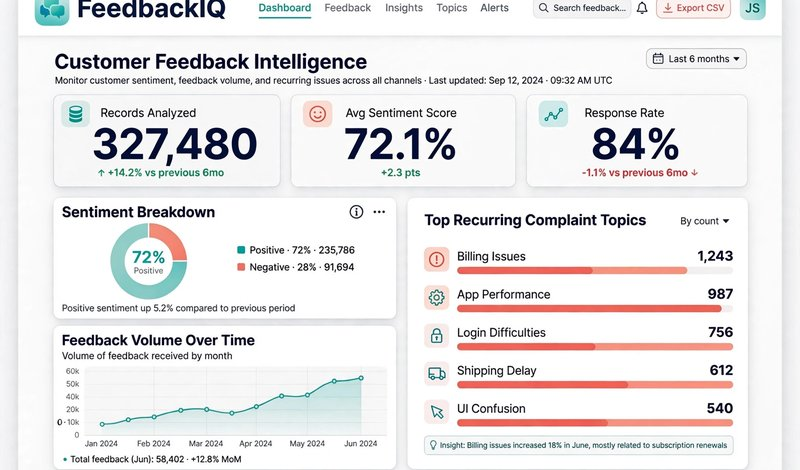
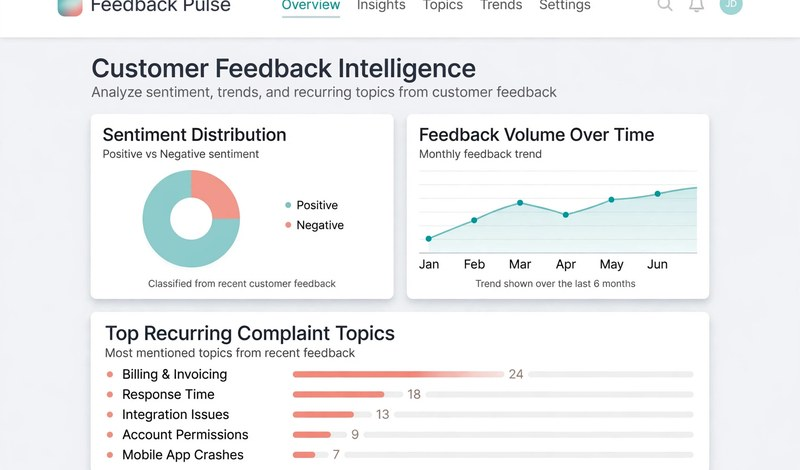
Mirror QA fixes: monogram-only header, lowercase nav, taller footer, no status pills, single-line card titles, readable inactive hero side, full-face photo strip, tilted pie between lists, story portrait, contact portrait beside heading, number-free feedback image

diff --git a/css/style.css b/css/style.css
@@ -62,7 +62,7 @@
       .brand-name small{ display:block; font-weight:500; font-size:11px; color:#bdb8ac; letter-spacing:.4px; }
       nav.main{ margin-left:auto; display:flex; align-items:center; gap:4px; }
       nav.main a{
-        color:#ece9e2; text-decoration:none; font-size:17px; font-weight:500;
+        color:#ece9e2; text-decoration:none; font-size:17px; font-weight:400; text-transform:lowercase;
         padding:10px 11px; border-radius:6px; min-height:40px; display:inline-flex; align-items:center;
       }
       nav.main a:hover{ color:#fff; background:#2a2723; }
@@ -235,7 +235,7 @@
       .preview img{ width:100%; height:100%; object-fit:cover; display:block; }
       .card-meta{ padding:20px 22px 22px; display:flex; flex-direction:column; flex:1; }
       .card-top{ display:flex; align-items:flex-start; gap:10px; }
-      .card-top h3{ margin:0; font-size:20px; font-weight:400; color:var(--ink-strong); line-height:1.35; letter-spacing:-.3px; flex:1; }
+      .card-top h3{ margin:0; font-size:20px; font-weight:400; color:var(--ink-strong); line-height:1.35; letter-spacing:-.3px; flex:1; min-width:0; white-space:nowrap; overflow:hidden; text-overflow:ellipsis; }
       /* Adham-style collapsed card: title + subtitle + chevron; detail opens on click */
 .work-arrow{
         position:absolute; top:calc(50% + 20px); transform:translateY(-50%);
@@ -358,13 +358,13 @@
       }
       .to-top svg{ width:45px; height:25px; fill:#fff; }
       .footer-in{
-        max-width:1310px; margin:0 auto; padding:30px 20px 34px;
+        max-width:1310px; margin:0 auto; padding:44px 20px 48px;
         display:flex; align-items:center; gap:20px; flex-wrap:wrap;
       }
       .footer-in .copy{ font-size:16px; color:#999; font-weight:400; }
       .footer-in nav{ margin-left:auto; display:flex; gap:4px; flex-wrap:wrap; }
 .footer-in nav a{
-        color:#999; text-decoration:none; font-size:17px; font-weight:400;
+        color:#999; text-decoration:none; font-size:17px; font-weight:400; text-transform:lowercase;
         padding:9px 13px; min-height:38px; display:inline-flex; align-items:center; border-radius:6px;
       }
       .footer-in nav a:hover{ color:var(--ink-strong); }
@@ -442,14 +442,14 @@
       .about-hero{ display:grid; grid-template-columns:1.05fr .95fr; gap:60px; align-items:start; }
       .about-hero img{ width:100%; height:auto; display:block; }
       .strip{ display:flex; gap:25px; margin-top:110px; }
-      .strip img{ flex:1; min-width:0; height:190px; object-fit:cover; border-radius:12px; border:3px solid #fff; box-shadow:0 4px 14px rgba(0,0,0,.12); }
-      .split2{ display:grid; grid-template-columns:1.1fr .9fr; gap:60px; align-items:center; }
-      .duo{ display:grid; grid-template-columns:1fr 1fr; gap:30px; margin-top:28px; }
-      .duo h3{ font-size:20px; font-weight:600; color:#333; margin:0 0 12px; }
-      .duo ul{ margin:0; padding-left:20px; font-size:18px; line-height:1.8; color:#444; }
-      .pie{ width:400px; height:400px; border-radius:50%; margin:0 auto; position:relative;
+      .strip img{ flex:1; min-width:0; height:190px; object-fit:contain; background:#fff; border-radius:12px; border:3px solid #fff; box-shadow:0 4px 14px rgba(0,0,0,.12); }
+      .split2{ display:grid; grid-template-columns:1fr auto 1fr; gap:40px; align-items:center; }
+      .split2 h3{ font-size:20px; font-weight:600; color:#333; margin:0 0 12px; }
+      .split2 ul{ margin:28px 0 0; padding:0; list-style:none; font-size:20px; line-height:1.8; color:#444; }
+      .split2 ul li{ margin:0 0 10px; }
+      .pie{ width:400px; height:400px; border-radius:50%; margin:0 auto; position:relative; transform:rotate(-25deg);
         background:conic-gradient(#d8d2c4 0 50%, #2b2b2b 50% 100%); }
-      .pie span{ position:absolute; top:50%; transform:translateY(-50%); color:#fff; font-size:22px; font-weight:700; }
+      .pie span{ position:absolute; top:50%; transform:translateY(-50%) rotate(25deg); color:#fff; font-size:22px; font-weight:700; }
       .pie .pl{ left:12%; }
       .pie .pr{ right:8%; }
       .facts{ display:grid; grid-template-columns:680px 1fr; gap:60px; align-items:start; }
@@ -481,14 +481,14 @@
       .post-meta img{ width:80px; height:80px; border-radius:50%; object-fit:cover; }
       .post-meta b{ font-size:22px; color:#333; font-weight:500; display:block; }
       .post-meta span{ font-size:20px; color:#999; }
-      .contact-hero{ display:grid; grid-template-columns:1fr 1fr; gap:60px; align-items:start; margin-top:70px; }
+      .contact-top{ display:grid; grid-template-columns:1fr 440px; gap:60px; align-items:start; }
       .social-grid{ display:grid; grid-template-columns:1fr 1fr; gap:44px 60px; }
       .social-tile{ display:flex; align-items:center; gap:16px; text-decoration:none; }
       .social-tile .dot{ width:60px; height:60px; border-radius:50%; display:grid; place-items:center; flex:none; }
       .social-tile .dot svg{ width:28px; height:28px; fill:#fff; }
       .social-tile .dot svg.ig{ fill:none; stroke:#fff; stroke-width:2; }
       .social-tile span{ font-size:22px; font-weight:500; }
-      .split-face{ display:flex; height:600px; }
+      .split-face{ display:flex; height:550px; }
       .split-face img{ width:100%; height:100%; object-fit:cover; display:block; }
       .form-band{ background:#fafafa; padding:90px 0; margin:110px 0 0; }
       .cform{ display:grid; grid-template-columns:1fr 1fr; gap:25px 40px; margin-top:44px; }
@@ -506,9 +506,10 @@
         .band-sec, .form-band{ padding:56px 0; margin:70px 0; }
         .form-band{ margin-bottom:0; }
         .post{ margin-bottom:120px; }
-        .contact-hero, .folio-grid{ margin-top:40px; }
+        .contact-top, .folio-grid{ margin-top:40px; }
         .work-head{ margin-bottom:28px; }
-        .about-hero, .split2, .facts, .folio-hero, .contact-hero{ grid-template-columns:1fr; gap:30px; }
+        .about-hero, .split2, .facts, .folio-hero, .contact-top{ grid-template-columns:1fr; gap:30px; }
+        .story-portrait{ float:none; margin:0 0 24px; }
         .facts img{ height:340px; }
         .strip{ flex-direction:column; }
         .strip img{ height:220px; }
@@ -527,10 +528,13 @@
       }
       @media (prefers-color-scheme: dark){
         .page-head, .page-sec > h2, .post h2, .book-row h3, .cform .fld label{ color:#ece9e2; }
-        .page-lede, .duo ul, .facts ul, ol.steps, .post-meta b{ color:#cfc9bd; }
+        .page-lede, .split2 ul, .facts ul, ol.steps, .post-meta b{ color:#cfc9bd; }
         .band-sec, .form-band{ background:var(--band); }
         .pie{ background:conic-gradient(#4a463d 0 50%, #ece9e2 50% 100%); }
         .pie span{ color:#171512; }
         .cform .fld input, .cform .fld textarea{ background:#2a2721; border-color:#4a463d; color:#ece9e2; }
         .send-btn{ background:#ece9e2; color:#171512; }
       }
+
+      .story-portrait{ width:220px; height:220px; border-radius:50%; object-fit:cover; float:right; margin:6px 0 24px 32px; }
+      .card .status{ display:none; }

diff --git a/about.html b/about.html
@@ -19,7 +19,7 @@
       <div class="header-in">
         <a class="brand" href="index.html" aria-label="Vedant Pandya — home">
           <img class="monogram" src="assets/logo-v.svg" alt="Vedant Pandya logo" width="64" height="64" />
-          <span class="brand-name">Vedant Pandya<small>AI Technical Architect &amp; Business Systems Builder</small></span>
+          
         </a>
         <button class="menu-btn" id="menuBtn" type="button" aria-label="Menu" aria-expanded="false"><span aria-hidden="true"></span></button>
         <nav class="main" aria-label="Main">
@@ -65,29 +65,27 @@
             <h2>Part problem solver, part builder</h2>
             <p class="page-lede" style="margin-top:0">I work on both sides of a business problem: first understanding what is actually going wrong, then building the system that fixes it.</p>
             <div class="split2">
-              <div class="duo">
-                <div>
-                  <h3>Problem solver</h3>
-                  <ul>
-                    <li>Understand customer questions</li>
-                    <li>Find recurring problems</li>
-                    <li>Design simpler processes</li>
-                    <li>Measure what improved</li>
-                  </ul>
-                </div>
-                <div>
-                  <h3>Builder</h3>
-                  <ul>
-                    <li>AI customer-service systems</li>
-                    <li>Reporting automation</li>
-                    <li>Inventory &amp; accounting</li>
-                    <li>Online stores</li>
-                  </ul>
-                </div>
+              <div>
+                <h3>Problem solver</h3>
+                <ul>
+                  <li>Understand customer questions</li>
+                  <li>Find recurring problems</li>
+                  <li>Design simpler processes</li>
+                  <li>Measure what improved</li>
+                </ul>
               </div>
               <div class="pie" role="img" aria-label="Half problem solver, half systems builder">
                 <span class="pl">Problem<br />solver</span>
                 <span class="pr">Systems<br />builder</span>
+              </div>
+              <div>
+                <h3>Builder</h3>
+                <ul>
+                  <li>AI customer-service systems</li>
+                  <li>Reporting automation</li>
+                  <li>Inventory &amp; accounting</li>
+                  <li>Online stores</li>
+                </ul>
               </div>
             </div>
           </div>
@@ -142,6 +140,7 @@
         </section>
         <section class="page-sec">
           <h2>My story</h2>
+          <img class="story-portrait" src="assets/photo-tall.jpg" alt="Vedant Pandya" loading="lazy" />
           <p class="page-lede" style="margin-top:0">My work started with a simple observation: small businesses lose hours every day to repetitive questions, messy reports and stock nobody can track. I build the systems that take that work away.</p>
           <p class="page-lede">Every project follows the same five steps:</p>
           <ol class="steps">

diff --git a/contact.html b/contact.html
@@ -19,7 +19,7 @@
       <div class="header-in">
         <a class="brand" href="index.html" aria-label="Vedant Pandya — home">
           <img class="monogram" src="assets/logo-v.svg" alt="Vedant Pandya logo" width="64" height="64" />
-          <span class="brand-name">Vedant Pandya<small>AI Technical Architect &amp; Business Systems Builder</small></span>
+          
         </a>
         <button class="menu-btn" id="menuBtn" type="button" aria-label="Menu" aria-expanded="false"><span aria-hidden="true"></span></button>
         <nav class="main" aria-label="Main">
@@ -43,10 +43,11 @@
     </header>
     <main id="top">
       <div class="page">
-        <h1 class="page-head">contact.</h1>
-        <p class="page-intro">Get in touch with me via social media or send me an email.</p>
-        <div class="contact-hero">
-          <div class="social-grid">
+        <div class="contact-top">
+          <div>
+            <h1 class="page-head">contact.</h1>
+            <p class="page-intro">Get in touch with me via social media or send me an email.</p>
+            <div class="social-grid">
             <a class="social-tile" href="https://www.linkedin.com/in/vedant-pandya10" target="_blank" rel="noopener">
               <span class="dot" style="background:#0a66c2;"><svg viewBox="0 0 24 24" aria-hidden="true"><path d="M4.98 3.5C4.98 4.88 3.87 6 2.5 6S0 4.88 0 3.5 1.12 1 2.5 1s2.48 1.12 2.48 2.5zM.2 8h4.6v14H.2zM8.3 8h4.4v1.9h.1c.6-1.2 2.1-2.4 4.4-2.4 4.7 0 5.6 3.1 5.6 7.1V22h-4.6v-6.5c0-1.6 0-3.6-2.2-3.6s-2.6 1.7-2.6 3.5V22H8.3z" transform="translate(0.6,0.6) scale(0.95)"/></svg></span><span style="color:#0a66c2;">LinkedIn</span>
             </a>
@@ -56,6 +57,7 @@
             <a class="social-tile" href="mailto:pvedant881@gmail.com">
               <span class="dot" style="background:#333;"><svg viewBox="0 0 24 24" aria-hidden="true"><path d="M2 5a2 2 0 0 1 2-2h16a2 2 0 0 1 2 2v14a2 2 0 0 1-2 2H4a2 2 0 0 1-2-2zm2.3.4L12 11l7.7-5.6H4.3zM20 7.2l-8 5.8-8-5.8V19h16z"/></svg></span><span style="color:#333;">Email</span>
             </a>
+            </div>
           </div>
           <div class="split-face">
             <picture><source srcset="assets/split-face.webp" type="image/webp"><img src="assets/split-face.jpg" alt="Vedant Pandya, half artwork and half photograph" /></picture>

diff --git a/js/main.js b/js/main.js
@@ -22,8 +22,8 @@
         function setSplit(p) {
           p = Math.max(0, Math.min(1, p));
           wipe.style.clipPath = 'inset(0 ' + (p * 100) + '% 0 0)';
-          sideL.style.opacity = p <= 0.5 ? 1 : 1 - (p - 0.5) / 0.5;
-          sideR.style.opacity = p >= 0.5 ? 1 : p / 0.5;
+          sideL.style.opacity = p <= 0.5 ? 1 : 1 - (p - 0.5) / 0.5 * 0.65;
+            sideR.style.opacity = p >= 0.5 ? 1 : 0.35 + (p / 0.5) * 0.65;
           /* The portraits never move: both layers stay perfectly
              registered, only the wipe edge (clip-path) moves, so the
              two backgrounds can never merge or show side by side. */

diff --git a/blog.html b/blog.html
@@ -19,7 +19,7 @@
       <div class="header-in">
         <a class="brand" href="index.html" aria-label="Vedant Pandya — home">
           <img class="monogram" src="assets/logo-v.svg" alt="Vedant Pandya logo" width="64" height="64" />
-          <span class="brand-name">Vedant Pandya<small>AI Technical Architect &amp; Business Systems Builder</small></span>
+          
         </a>
         <button class="menu-btn" id="menuBtn" type="button" aria-label="Menu" aria-expanded="false"><span aria-hidden="true"></span></button>
         <nav class="main" aria-label="Main">

diff --git a/portfolio.html b/portfolio.html
@@ -19,7 +19,7 @@
       <div class="header-in">
         <a class="brand" href="index.html" aria-label="Vedant Pandya — home">
           <img class="monogram" src="assets/logo-v.svg" alt="Vedant Pandya logo" width="64" height="64" />
-          <span class="brand-name">Vedant Pandya<small>AI Technical Architect &amp; Business Systems Builder</small></span>
+          
         </a>
         <button class="menu-btn" id="menuBtn" type="button" aria-label="Menu" aria-expanded="false"><span aria-hidden="true"></span></button>
         <nav class="main" aria-label="Main">

diff --git a/index.html b/index.html
@@ -28,7 +28,7 @@
       <div class="header-in">
         <a class="brand" href="#top" aria-label="Vedant Pandya — home">
           <img class="monogram" src="assets/logo-v.svg" alt="Vedant Pandya logo" width="64" height="64" />
-          <span class="brand-name">Vedant Pandya<small>AI Technical Architect &amp; Business Systems Builder</small></span>
+          
         </a>
         <button class="menu-btn" id="menuBtn" type="button" aria-label="Menu" aria-expanded="false"><span aria-hidden="true"></span></button>
         <nav class="main" aria-label="Main">
